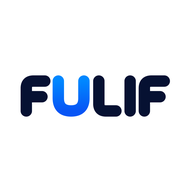
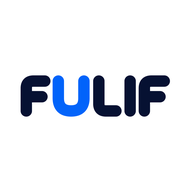
feat(brand): 로고 · 파비콘의 U 를 그러데이션 → 단색 블루 #0163FA
로고 네 장(big/small × white/black)의 U 를 앱 브랜드 블루 #0163FA 단색으로.
알파는 그대로라 가장자리가 깨지지 않는다(앱 저장소 tool/app_icon/solid_u.py).
파비콘 32/48 · icon-192 · apple-touch 는 새 앱 아이콘(1024)을 줄여 다시 만든다.
이미지 캐시 버전 fulif-20261016c.

검증: next build 통과 · 로고 · 파비콘 렌더 확인.

Changed region(s): [[0.25, 0.375, 0.3438, 0.4688], [0.4062, 0.375, 0.4688, 0.4688]]

diff --git a/pages/_document.js b/pages/_document.js
@@ -7,10 +7,10 @@ export default function Document() {
     <Html lang="ko" data-scroll-behavior="smooth">
       <Head>
         <meta charSet="utf-8" />
-        <link rel="icon" href="/brand/favicon-32.png?v=fulif-20261016" type="image/png" sizes="32x32" />
-        <link rel="icon" href="/brand/favicon-48.png?v=fulif-20261016" type="image/png" sizes="48x48" />
-        <link rel="icon" href="/brand/icon-192.png?v=fulif-20261016" type="image/png" sizes="192x192" />
-        <link rel="apple-touch-icon" href="/brand/apple-touch-icon.png?v=fulif-20261016" />
+        <link rel="icon" href="/brand/favicon-32.png?v=fulif-20261016c" type="image/png" sizes="32x32" />
+        <link rel="icon" href="/brand/favicon-48.png?v=fulif-20261016c" type="image/png" sizes="48x48" />
+        <link rel="icon" href="/brand/icon-192.png?v=fulif-20261016c" type="image/png" sizes="192x192" />
+        <link rel="apple-touch-icon" href="/brand/apple-touch-icon.png?v=fulif-20261016c" />
         <meta name="theme-color" content="#FFFFFF" />
         <link rel="preload" href="/fonts/pretendard/PretendardVariable.woff2" as="font" type="font/woff2" crossOrigin="anonymous" />
         <script

diff --git a/components/Brand.js b/components/Brand.js
@@ -6,7 +6,7 @@ export function BrandWordmark({ className = '', color = 'currentColor', tone = '
   const viewBox = compact ? '0 0 1024 1024' : '0 0 2152 811';
   return (
     <svg className={className} viewBox={viewBox} fill="none" aria-hidden="true">
-      <image href={`/brand/logo-${size}-${light ? 'white' : 'black'}.png?v=fulif-20261016`} width={compact ? 1024 : 2152} height={compact ? 1024 : 811} />
+      <image href={`/brand/logo-${size}-${light ? 'white' : 'black'}.png?v=fulif-20261016c`} width={compact ? 1024 : 2152} height={compact ? 1024 : 811} />
     </svg>
   );
 }
